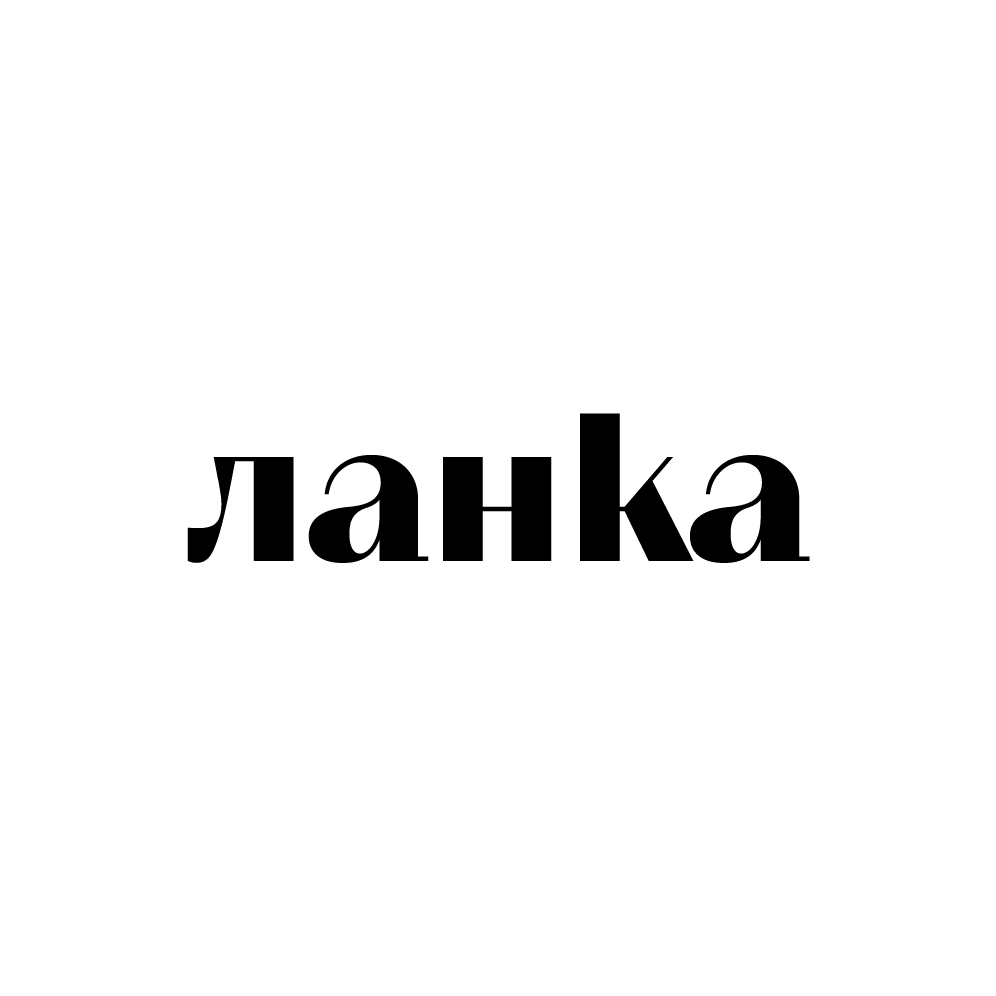
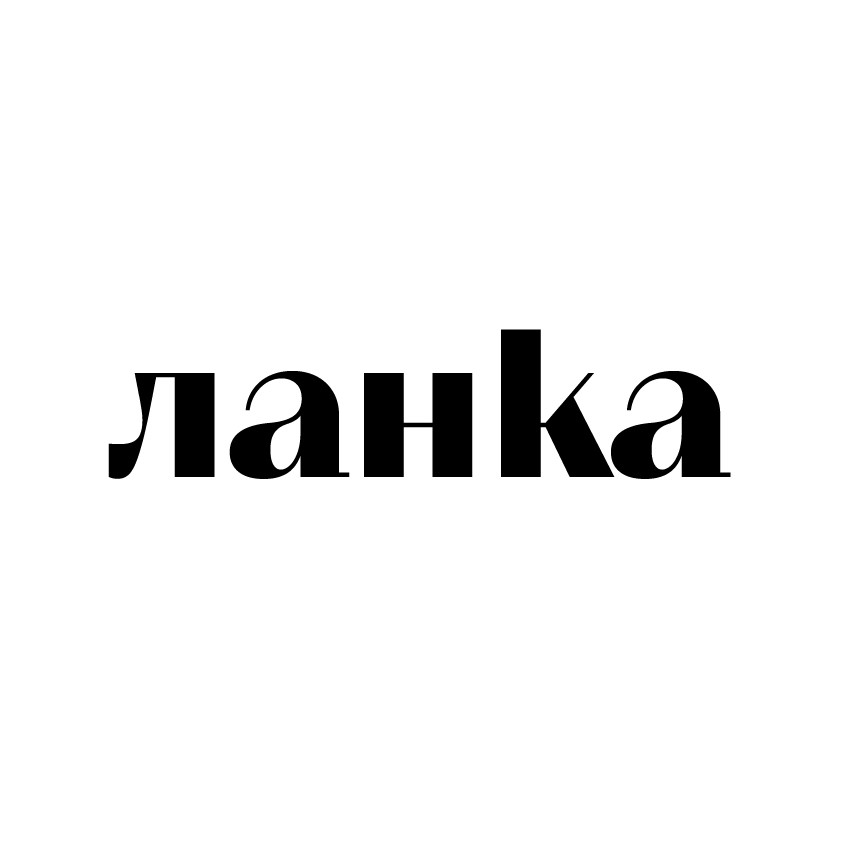
Photo coments

Changed region(s): [[0.1224, 0.3671, 0.8565, 0.5812]]

diff --git a/index.html b/index.html
@@ -66,37 +66,37 @@
               <a
               href="2.png"
               target="_blank"
-              data-sub-html="<h4>Назва роботи</h4><p>Опис роботи <a href='http://google.com/' target='_blank'>view logn</a> description later on.</p>"              >
+              data-sub-html="<h4>Піар пекедж для Radar</h4><p>Дизайн упакування для PR розсилки від компанії Radar.</p>"              >
               <img src="2.png" />
             </a>
             </div>
 
             <div class="gallery--item">
-              <a href="1.jpg" data-sub-html=" <h4>Fading Light</h4> <p>Classic view from <a href='http://google.com' target='_blank'>Rigwood Jetty</a> on Coniston Water an old archive shot similar to an old post but a little later on.</p>">
+              <a href="1.jpg" data-sub-html=" <h4>Ланка</h4> <p>Логотип для Ланки - проєкту фіксації генерації студентів ЛНАМ.</p>">
                 <img src="1.jpg">
               </a>
             </div>
 
             <div class="gallery--item">
-              <a href="3.png" data-sub-html=" <h4>Fading Light</h4> <p>Classic view from <a href='http://google.com' target='_blank'>Rigwood Jetty</a> on Coniston Water an old archive shot similar to an old post but a little later on.</p>">
+              <a href="3.png" data-sub-html=" <h4>Jazz on the Dnipro</h4> <p>Редизайн візуального стилю для джаз фестивалю. Студентська робота. </p>">
                 <img src="3.png">
               </a>
             </div>
 
             <div class="gallery--item">
-              <a href="4.png" data-sub-html=" <h4>Fading Light</h4> <p>Classic view from <a href='http://google.com' target='_blank'>Rigwood Jetty</a> on Coniston Water an old archive shot similar to an old post but a little later on.</p>">
+              <a href="4.png" data-sub-html=" <h4>Шрифт 'Мозаїка'</h4> <p>Створення власного акцидентного шрифта. Студентська робота.</p>">
                 <img src="4.png">
               </a>
             </div>
 
             <div class="gallery--item">
-              <a href="5.jpg" data-sub-html=" <h4>Fading Light</h4> <p>Classic view from <a href='http://google.com' target='_blank'>Rigwood Jetty</a> on Coniston Water an old archive shot similar to an old post but a little later on.</p>">
+              <a href="5.jpg" data-sub-html=" <h4>Кейс для Instagram для Radar</h4> <p>Один із 3-х кейсів на тему заходів безпеки під час пандемії для Radar.</p>">
                 <img src="5.jpg">
               </a>
             </div>
 
             <div class="gallery--item">
-              <a href="6.png" data-sub-html=" <h4>Fading Light</h4> <p>Classic view from <a href='http://google.com' target='_blank'>Rigwood Jetty</a> on Coniston Water an old archive shot similar to an old post but a little later on.</p>">
+              <a href="6.png" data-sub-html=" <h4>Плакат для Sony Synth</h4> <p>Палакат для молодого виконавця, діджея Sony Synth. Студентська робота.</p>">
                 <img src="6.png">
               </a>
               <!--<p class="regular">2021</p>-->
